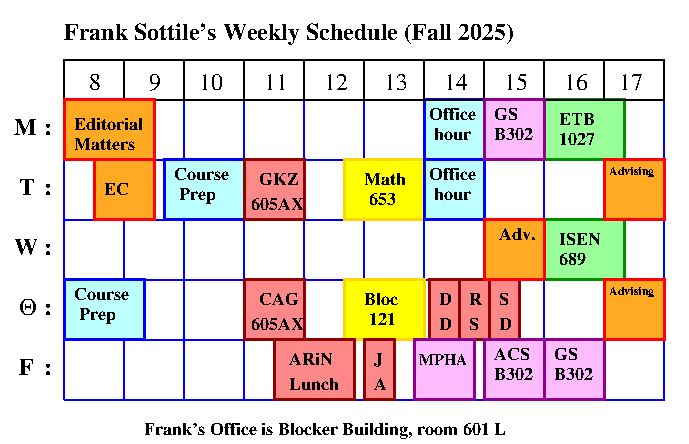
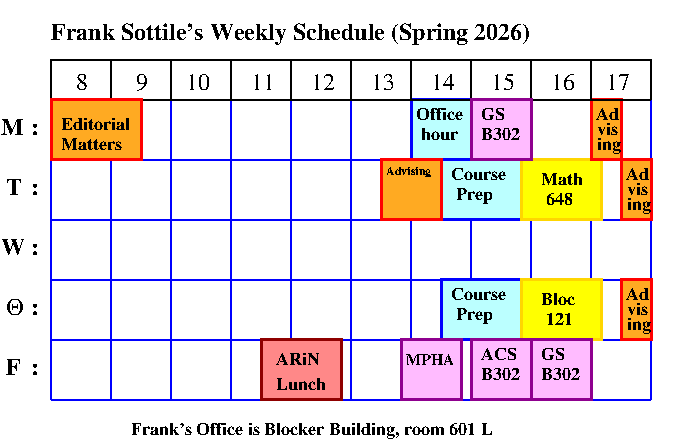
some updates

diff --git a/teaching.html b/teaching.html
@@ -8,7 +8,7 @@
 </head>
 
 <body>
-<table>
+<table border=0>
  <tr valign=top>
   <td>
 <!---------------------------------------------------------------->
@@ -74,12 +74,14 @@
  </tr>
  <!------------------------------------------------------->
 </table>
-  
 <!---------------------------------------------------------------->
 </td>
+<!---------------------------------------------------------------->
+<!----------           End Navigation Panel           ------------>
+<!---------------------------------------------------------------->
 <td>
 <!---------------------------------------------------------------->
-<table>
+<table border=0>
  <tr valign=top>
   <td width=140 align=center>
    <img src="images/frank_sm.jpg"><br>
@@ -87,7 +89,7 @@
   <td align=left>
    <font size=+3>Frank Sottile's Teaching</font><br><br>
 <!-------------------------------------------------------------------->
-<!------------    Teaching navigation page  -------------->
+<!-----------------    Teaching navigation page  ------------------->
 <table>
  <!------------------------------------------------>
  <tr>
@@ -120,6 +122,8 @@
  <!---------------------------------------------------------------------------->
 </table>
 <!-------------------------------------------------------------------->
+<!------------   End Teaching navigation panel  ---------------------->
+<!-------------------------------------------------------------------->
   </td>
 </tr>
 <!---------------------------------------------------------------------------->
@@ -136,35 +140,44 @@
 <!------------------------------------------------------------------------------>
  <!---------------------------------------------------------------------------------------------------->
    <b><FONT SIZE=+1 color=brown>Winter 2026</font></b>
-   <table border=0>
+   <table>
    <!---------------------------------------------------------------------------------------------------->
     <tr valign=top><td><font color=brown>MATH 648</font>&nbsp;</td>
       <td><a href="teaching/26.1/648.html">Computational Algebraic Geometry</a></td>
-      <td colspan=1> Tu-Th </td><td> 15:55&ndash;17:10</td><td> Blocker 121
+      <td colspan=1> Tu-Th </td><td> 15:55&ndash;17:10</td><td> Blocker 121 
       </td>
     </tr>
    <!---------------------------------------------------------------------------------------------------->
+   <tr>	
+     <td><font color=brown>Office Hours:</font></td>
+      <!-------------------------------------------------->
+     <td colspan=3>Mondays 14:00 &ndash; 14:50</td> </tr>
+    <!----------------------------------------------------------------->
+     <tr><td></td><td colspan=3>Thursdays  10:00 &ndash; 11:00 </td> </tr>
+    <!-------------------------------------------------->
+    <!---------------------------------------------------------------------------------------------------->
+   </table>
   	
-   <tr><td colspan=4><hr></td></tr>
-
+   <!---------------------------------------------------------------------------------------------------->
+   <tr><td colspan=3><hr></td></tr>
+   <tr><td colspan=3><table border=0>
+   <!---------------------------------------------------------------------------------------------------->
    <tr valign=top>
      <td colspan=3><font color=blue><b>Honors Advising:</b> Bloc 601L</font></td>
-     <!----
-     <td colspan=2><a target="_blank" href="https://tamu.campus.eab.com/pal/SzblDjOLD-">Schedule appointment</a></td> 
+     <td colspan=2>Schedule in Navigate</td> 
     </tr>
-    -------------------------------------------------->
-<!--     <tr valign=top><td colspan=2>Tuesdays  &amp; Thursdays </td>
-      <td colspan=2 >15:00&ndash;16:00</td>
-      <td>  </td></tr>
-    --------------------------------------------------
-     <tr><td> Wednesday </td><td>17:00-18:00 </td> </tr>
-    -------------------------------------------------->
-     <!-- -->
-    <tr><td>By appointment </td><td>email Sottile </td> </tr>
+    <!-------------------------------------------------->
+     <tr valign=top><td colspan=3>Mondays 17:00 &ndash; 17:30</td></tr>
+    <!-------------------------------------------------->
+     <tr><td colspan=3>Tuedays  13:30 &ndash; 14:30 &nbsp; &amp; &nbsp; 17:30 &ndash; 18:00</td><td> </td> </tr>
+    <!-------------------------------------------------->
+     <tr><td colspan=3>Thursdays  &nbsp; 17:30 &ndash; 18:00</td><td> </td> </tr>
+    <!-------------------------------------------------->
+   <!--     <tr><td> </td><td>17:00-18:00 </td> </tr>-->
   <!---------------------------------------------------------------------------------------------------->
   </table>
   <!---------------------------------------------------------------------------------------------------->
-
+  </td></tr>
  <!---------------------------------------------------------------------------------------------------->
 
 
@@ -223,6 +236,6 @@
 
 <hr>
 <!---------------------------------------------------------------------------->
-<p>Last modified: Thu Sept 25 22:16:28 CDT 2025 by sottile</p>  
+<p>Last modified: Thu Jan 1 10:45:16 CST 2026 by sottile</p>  
 </body> </html>
  

diff --git a/HUR/JMM_26.html b/HUR/JMM_26.html
@@ -67,6 +67,14 @@ We have 11 students making 13 presentations at the 2026 Joint Mathematics Meetin
   <!---------------------------------------------------------------------------------------------------->
   <!---------------------------------------------------------------------------------------------------->
   <tr valign=top>
+    <td>Jack Lao,</td><td></td>
+    <td>January 6  Poster # 21 at 12:30 PM  AMS-&Pi;ME Poster Session I, Exhibit Hall D, Convention center<br>
+      <a href="https://meetings.ams.org/math/jmm2026/meetingapp.cgi/Paper/58829">Efficient Exploration of Planar Shapes
+      Through Simple Random Walk</a></td>  
+  </tr>
+  <!---------------------------------------------------------------------------------------------------->
+  <!---------------------------------------------------------------------------------------------------->
+  <tr valign=top>
     <td>Jennifer Mackenzie,</td><td></td>
     <td>January 5 at 1:00 PM.  Talk in &Pi;ME Session, 159A, Convention center<br>
       <a href="https://meetings.ams.org/math/jmm2026/meetingapp.cgi/Paper/58382">The height function associated with a sparse collection:
@@ -86,6 +94,14 @@ We have 11 students making 13 presentations at the 2026 Joint Mathematics Meetin
     <td>Ahn Viet Nguyen, </td><td></td>
     <td>January 6   Poster #113  at 3:30 PM in AMS&ndash;&Pi;ME Poster Session II, 159A,  Exhibit Hall D, Convention center<br>
       <a href="https://meetings.ams.org/math/jmm2026/meetingapp.cgi/Paper/59018">Convergence of Permuted Products of Exponentials</a></td>
+  </tr>
+  <!---------------------------------------------------------------------------------------------------->
+  <!---------------------------------------------------------------------------------------------------->
+  <tr valign=top>
+    <td>Ethan Park,</td><td></td>
+    <td>January 6  Poster # 21 at 12:30 PM  AMS-&Pi;ME Poster Session I, Exhibit Hall D, Convention center<br>
+      <a href="https://meetings.ams.org/math/jmm2026/meetingapp.cgi/Paper/58829">Efficient Exploration of Planar Shapes
+      Through Simple Random Walk</a></td>  
   </tr>
   <!---------------------------------------------------------------------------------------------------->
   <!---------------------------------------------------------------------------------------------------->

diff --git a/talks.html b/talks.html
@@ -122,7 +122,7 @@
   <li> 
     <FONT COLOR="AA00FF"><I>TBA</I></font>,
     Algebra seminar,
-    Michigan State Univertsity, 11 March 2026.
+    Michigan State University, 11 March 2026.
     <a href="talks/26/JMM_Kurlin.txt"></a>
   </li>
   <!---------------------------------------------------------------------------------------------------->
@@ -130,7 +130,7 @@
   <li> 
     <FONT COLOR="AA00FF"><I>TBA</I></font>,
     Mathematical Physics and Operator Algebras seminar,
-    Michigan State Univertsity, 10 March 2026.
+    Michigan State University, 10 March 2026.
     <a href="talks/26/JMM_Kurlin.txt"></a>
   </li>
   <!---------------------------------------------------------------------------------------------------->
@@ -144,7 +144,7 @@
   <!---------------------------------------------------------------------------------------------------->
   <!---------------------------------------------------------------------------------------------------->
   <li> 
-    <FONT COLOR="AA00FF"><I>Families of graphs satisfying the spectral edges conjecturess</I></font>,
+    <FONT COLOR="AA00FF"><I>Families of graphs satisfying the spectral edges conjecture</I></font>,
     AMS Special Session on  Spectral Theory of Discrete and Continuous Sch&ouml;dinger Operators,
     Joint Mathematics Meetings, 4&ndash;7 January 2026, Washington, DC.
     <a href="talks/26/JMM_Spectral.txt">abstract</a>

diff --git a/index.html b/index.html
@@ -184,14 +184,14 @@
    <!---------------------------------------------------------------------------------------------------->
    <tr valign=top>
      <td colspan=3><font color=blue><b>Honors Advising:</b> Bloc 601L</font></td>
-     <td colspan=2><a target="_blank" href="https://tamu.campus.eab.com/pal/SzblDjOLD-">Schedule appointment</a></td> 
+     <td colspan=2>Schedule in Navigate</td> 
     </tr>
     <!-------------------------------------------------->
-     <tr valign=top><td colspan=2>TBA</td>
-      <td colspan=2 ></td>
-      <td>  </td></tr>
+     <tr valign=top><td colspan=3>Mondays 17:00 &ndash; 17:30</td>
     <!-------------------------------------------------->
-     <tr><td> TBA </td><td> </td> </tr>
+     <tr><td colspan=3>Tuedays  13:30 &ndash; 14:30 &nbsp; &amp; &nbsp; 17:30 &ndash; 18:00</td><td> </td> </tr>
+    <!-------------------------------------------------->
+     <tr><td colspan=3>Thursdays  &nbsp; 17:30 &ndash; 18:00</td><td> </td> </tr>
     <!-------------------------------------------------->
 <!--     <tr><td> </td><td>17:00-18:00 </td> </tr>-->
     <!---------------------------------------------------------------------------------------------------->

diff --git a/teaching/26.1/648.html b/teaching/26.1/648.html
@@ -31,6 +31,13 @@
        Graduate algebra or permission of instructor.
        This may be taken concurrently with Math 654.<br>
     
+   <font size=+1 color=maroon><b>Office Hours:</b></font>
+   Mondays  14:00 &ndash; 14:50 &nbsp; &amp; &nbsp; Thursdays  10:00 &ndash; 11:00.<br>
+    
+   <font size=+1 color=maroon><b>
+       <a href="https://tamu.simplesyllabus.com/doc/7nvrnpi38/Spring-2026-College-Station-MATH-648-600-%2858754%29-COMPUTATIONAL-ALG-GEOM?mode=view">Course Syllabus</a></b></font>
+   <a href="https://tamu.simplesyllabus.com/api2/doc-pdf/7nvrnpi38/Spring-2026-College-Station-MATH-648-600-%2858754%29-COMPUTATIONAL-ALG-GEOM.pdf?locale=en-US">PDF</a>.
+   
   </td>
   <td>
    <img src="HexWeb.gif" alt="Web for a maximally inflected quintic plane curve"> &nbsp; &nbsp;
